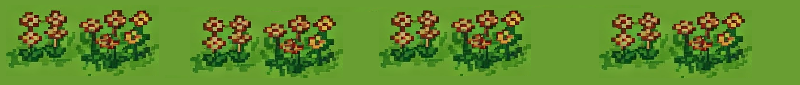
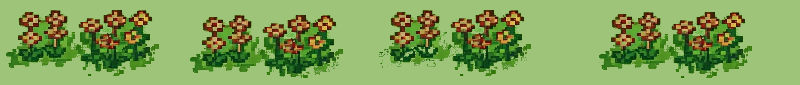
Implement parallax background and update game object structure

diff --git a/src/Game.tsx b/src/Game.tsx
@@ -1,12 +1,13 @@
 import React, { useRef, useEffect, useState } from "react";
-import beeImage from "./assets/bee.svg";
-import backgroundImage from "./assets/background.png";
-import foregroundImage from "./assets/forground.png";
 import { checkCollision, collidesWithRect } from "./collision";
 import { Obstacle, Rect } from "./types";
 import Bee from "./components/Bee";
+import ParalaxBackgound from "./components/ParalaxBackground";
 
 const Game: React.FC = () => {
+  const initialSpeed = 3;
+  const speedIncreaseRate = 0.002;
+
   const canvasRef = useRef<HTMLCanvasElement>(null);
   const [isGameOver, setIsGameOver] = useState(false);
   const [score] = useState(0);
@@ -15,25 +16,12 @@ const Game: React.FC = () => {
   const [obstacles] = useState<Obstacle[]>([]);
   const obstaclesRef = useRef(obstacles);
   const [isPaused, setIsPaused] = useState(false);
-  const beeStateRef = useRef<Bee>(new Bee());
-  const [backgroundX] = useState(0);
-  const backgroundXRef = useRef(backgroundX);
-  const [foregroundX] = useState(0);
-  const foregroundXRef = useRef(foregroundX);
+  const backgroundRef = useRef<ParalaxBackgound>(new ParalaxBackgound(initialSpeed, speedIncreaseRate));
+  const beeRef = useRef<Bee>(new Bee());
 
   const animationFrameIdRef = useRef<number | null>(null);
-  const flapStrength = -2.5;
   const initialGapSize = 200;
   const gapReductionRate = 0.9999;
-  const initialSpeed = 3;
-  const speedIncreaseRate = 0.002;
-  const beeImg = new Image();
-  beeImg.src = beeImage;
-
-  const backgroundImg = new Image();
-  backgroundImg.src = backgroundImage;
-  const foregroundImg = new Image();
-  foregroundImg.src = foregroundImage;
 
   let gapSize = initialGapSize;
   let speed = initialSpeed;
@@ -84,40 +72,6 @@ const Game: React.FC = () => {
     context.fillRect(rect.x, rect.y, rect.width, rect.height);
   };
 
-  const updateBackground = (canvas: HTMLCanvasElement) => {
-    backgroundXRef.current -= speed / 2;
-    if (backgroundXRef.current <= -canvas.width) {
-      backgroundXRef.current = 0;
-    }
-
-    foregroundXRef.current -= speed / 1.5;
-    if (foregroundXRef.current <= -canvas.width) {
-      foregroundXRef.current = 0;
-    }
-  };
-
-  const drawBackground = (context: CanvasRenderingContext2D, canvas: HTMLCanvasElement) => {
-    const x = backgroundXRef.current;
-    context.drawImage(backgroundImg, x, 0, canvas.width, canvas.height);
-    context.drawImage(backgroundImg, x + canvas.width, 0, canvas.width, canvas.height);
-
-    const foregroundX = foregroundXRef.current;
-    context.drawImage(
-      foregroundImg,
-      foregroundX,
-      canvas.height - foregroundImg.height,
-      canvas.width,
-      foregroundImg.height,
-    );
-    context.drawImage(
-      foregroundImg,
-      foregroundX + canvas.width,
-      canvas.height - foregroundImg.height,
-      canvas.width,
-      foregroundImg.height,
-    );
-  };
-
   const render = () => {
     const canvas = canvasRef.current;
     if (!canvas) return;
@@ -126,14 +80,15 @@ const Game: React.FC = () => {
 
     const doUpdate = !isGameOver && !isPaused;
     if (doUpdate) {
-      updateBackground(canvas);
-      beeStateRef.current.update();
+      // updateBackground(canvas);
+      backgroundRef.current.update(canvas);
+      beeRef.current.update(canvas);
       updateObstacles(canvas);
 
       // Check for collisions
-      if (checkCollision(beeStateRef.current, obstaclesRef.current, canvas.height)) {
+      if (checkCollision(beeRef.current, obstaclesRef.current, canvas.height)) {
         setIsGameOver(true);
-        console.log("Game Over", beeStateRef.current, ...obstaclesRef.current);
+        console.log("Game Over", beeRef.current, ...obstaclesRef.current);
         if (scoreRef.current > highScore) {
           localStorage.setItem("highScore", scoreRef.current.toString());
           setHighScore(scoreRef.current);
@@ -147,9 +102,10 @@ const Game: React.FC = () => {
     }
 
     context.clearRect(0, 0, canvas.width, canvas.height);
-    drawBackground(context, canvas);
-    beeStateRef.current.draw(context);
-    drawObstacles(obstaclesRef.current, context, beeStateRef.current);
+    //drawBackground(context, canvas);
+    backgroundRef.current.draw(context);
+    beeRef.current.draw(context);
+    drawObstacles(obstaclesRef.current, context, beeRef.current);
 
     animationFrameIdRef.current = requestAnimationFrame(render);
   };
@@ -166,7 +122,7 @@ const Game: React.FC = () => {
 
   const handleFlap = () => {
     if (!isGameOver && !isPaused) {
-      beeStateRef.current.velocity = flapStrength;
+      beeRef.current.flap();
     }
   };
 

diff --git a/src/components/ParalaxBackground.ts b/src/components/ParalaxBackground.ts
@@ -1,0 +1,65 @@
+import { GameObject } from "../types";
+import backgroundImage from "../assets/background.png";
+import midgroundImage from "../assets/midground.png";
+import foregroundImage from "../assets/forground.png";
+
+const backgroundImg = new Image();
+backgroundImg.src = backgroundImage;
+const midgroundImg = new Image();
+midgroundImg.src = midgroundImage;
+const foregroundImg = new Image();
+foregroundImg.src = foregroundImage;
+
+export default class ParalaxBackgound implements GameObject {
+  midgroundX: number = 0;
+  foregroundX: number = 0;
+  speed: number;
+
+  constructor(
+    private initialSpeed: number,
+    private speedIncreaseRate: number,
+  ) {
+    this.speed = initialSpeed;
+  }
+  draw(context: CanvasRenderingContext2D): void {
+    context.drawImage(backgroundImg, 0, 0, context.canvas.width, context.canvas.height);
+
+    context.drawImage(midgroundImg, this.midgroundX, 0, context.canvas.width, context.canvas.height);
+    context.drawImage(
+      midgroundImg,
+      this.midgroundX + context.canvas.width,
+      0,
+      context.canvas.width,
+      context.canvas.height,
+    );
+
+    context.drawImage(
+      foregroundImg,
+      this.foregroundX,
+      context.canvas.height - foregroundImg.height,
+      context.canvas.width,
+      foregroundImg.height,
+    );
+    context.drawImage(
+      foregroundImg,
+      this.foregroundX + context.canvas.width,
+      context.canvas.height - foregroundImg.height,
+      context.canvas.width,
+      foregroundImg.height,
+    );
+  }
+
+  update(canvas: HTMLCanvasElement): void {
+    this.speed += this.speedIncreaseRate;
+
+    this.midgroundX -= this.speed / 4;
+    if (this.midgroundX <= -canvas.width) {
+      this.midgroundX = 0;
+    }
+
+    this.foregroundX -= this.speed / 1.5;
+    if (this.foregroundX <= -canvas.width) {
+      this.foregroundX = 0;
+    }
+  }
+}

diff --git a/src/components/Bee.ts b/src/components/Bee.ts
@@ -4,7 +4,8 @@ import { GameObject } from "../types";
 const beeImg = new Image();
 beeImg.src = beeImage;
 
-const gravity = 0.04;
+const gravity = 0.08;
+const flapStrength = -3.5;
 
 export default class Bee implements GameObject {
   x: number;
@@ -25,8 +26,12 @@ export default class Bee implements GameObject {
     context.drawImage(beeImg, this.x, this.y, this.width, this.height);
   }
 
-  update() {
+  update(_canvas: HTMLCanvasElement) {
     this.y = this.y + this.velocity;
     this.velocity = this.velocity + gravity;
+  }
+
+  flap() {
+    this.velocity = flapStrength;
   }
 }

diff --git a/src/types.ts b/src/types.ts
@@ -15,7 +15,6 @@ export type Obstacle = {
 };
 
 export interface GameObject {
-  // eslint-disable-next-line no-unused-vars
   draw(context: CanvasRenderingContext2D): void;
-  update(): void;
+  update(canvas: HTMLCanvasElement): void;
 }
